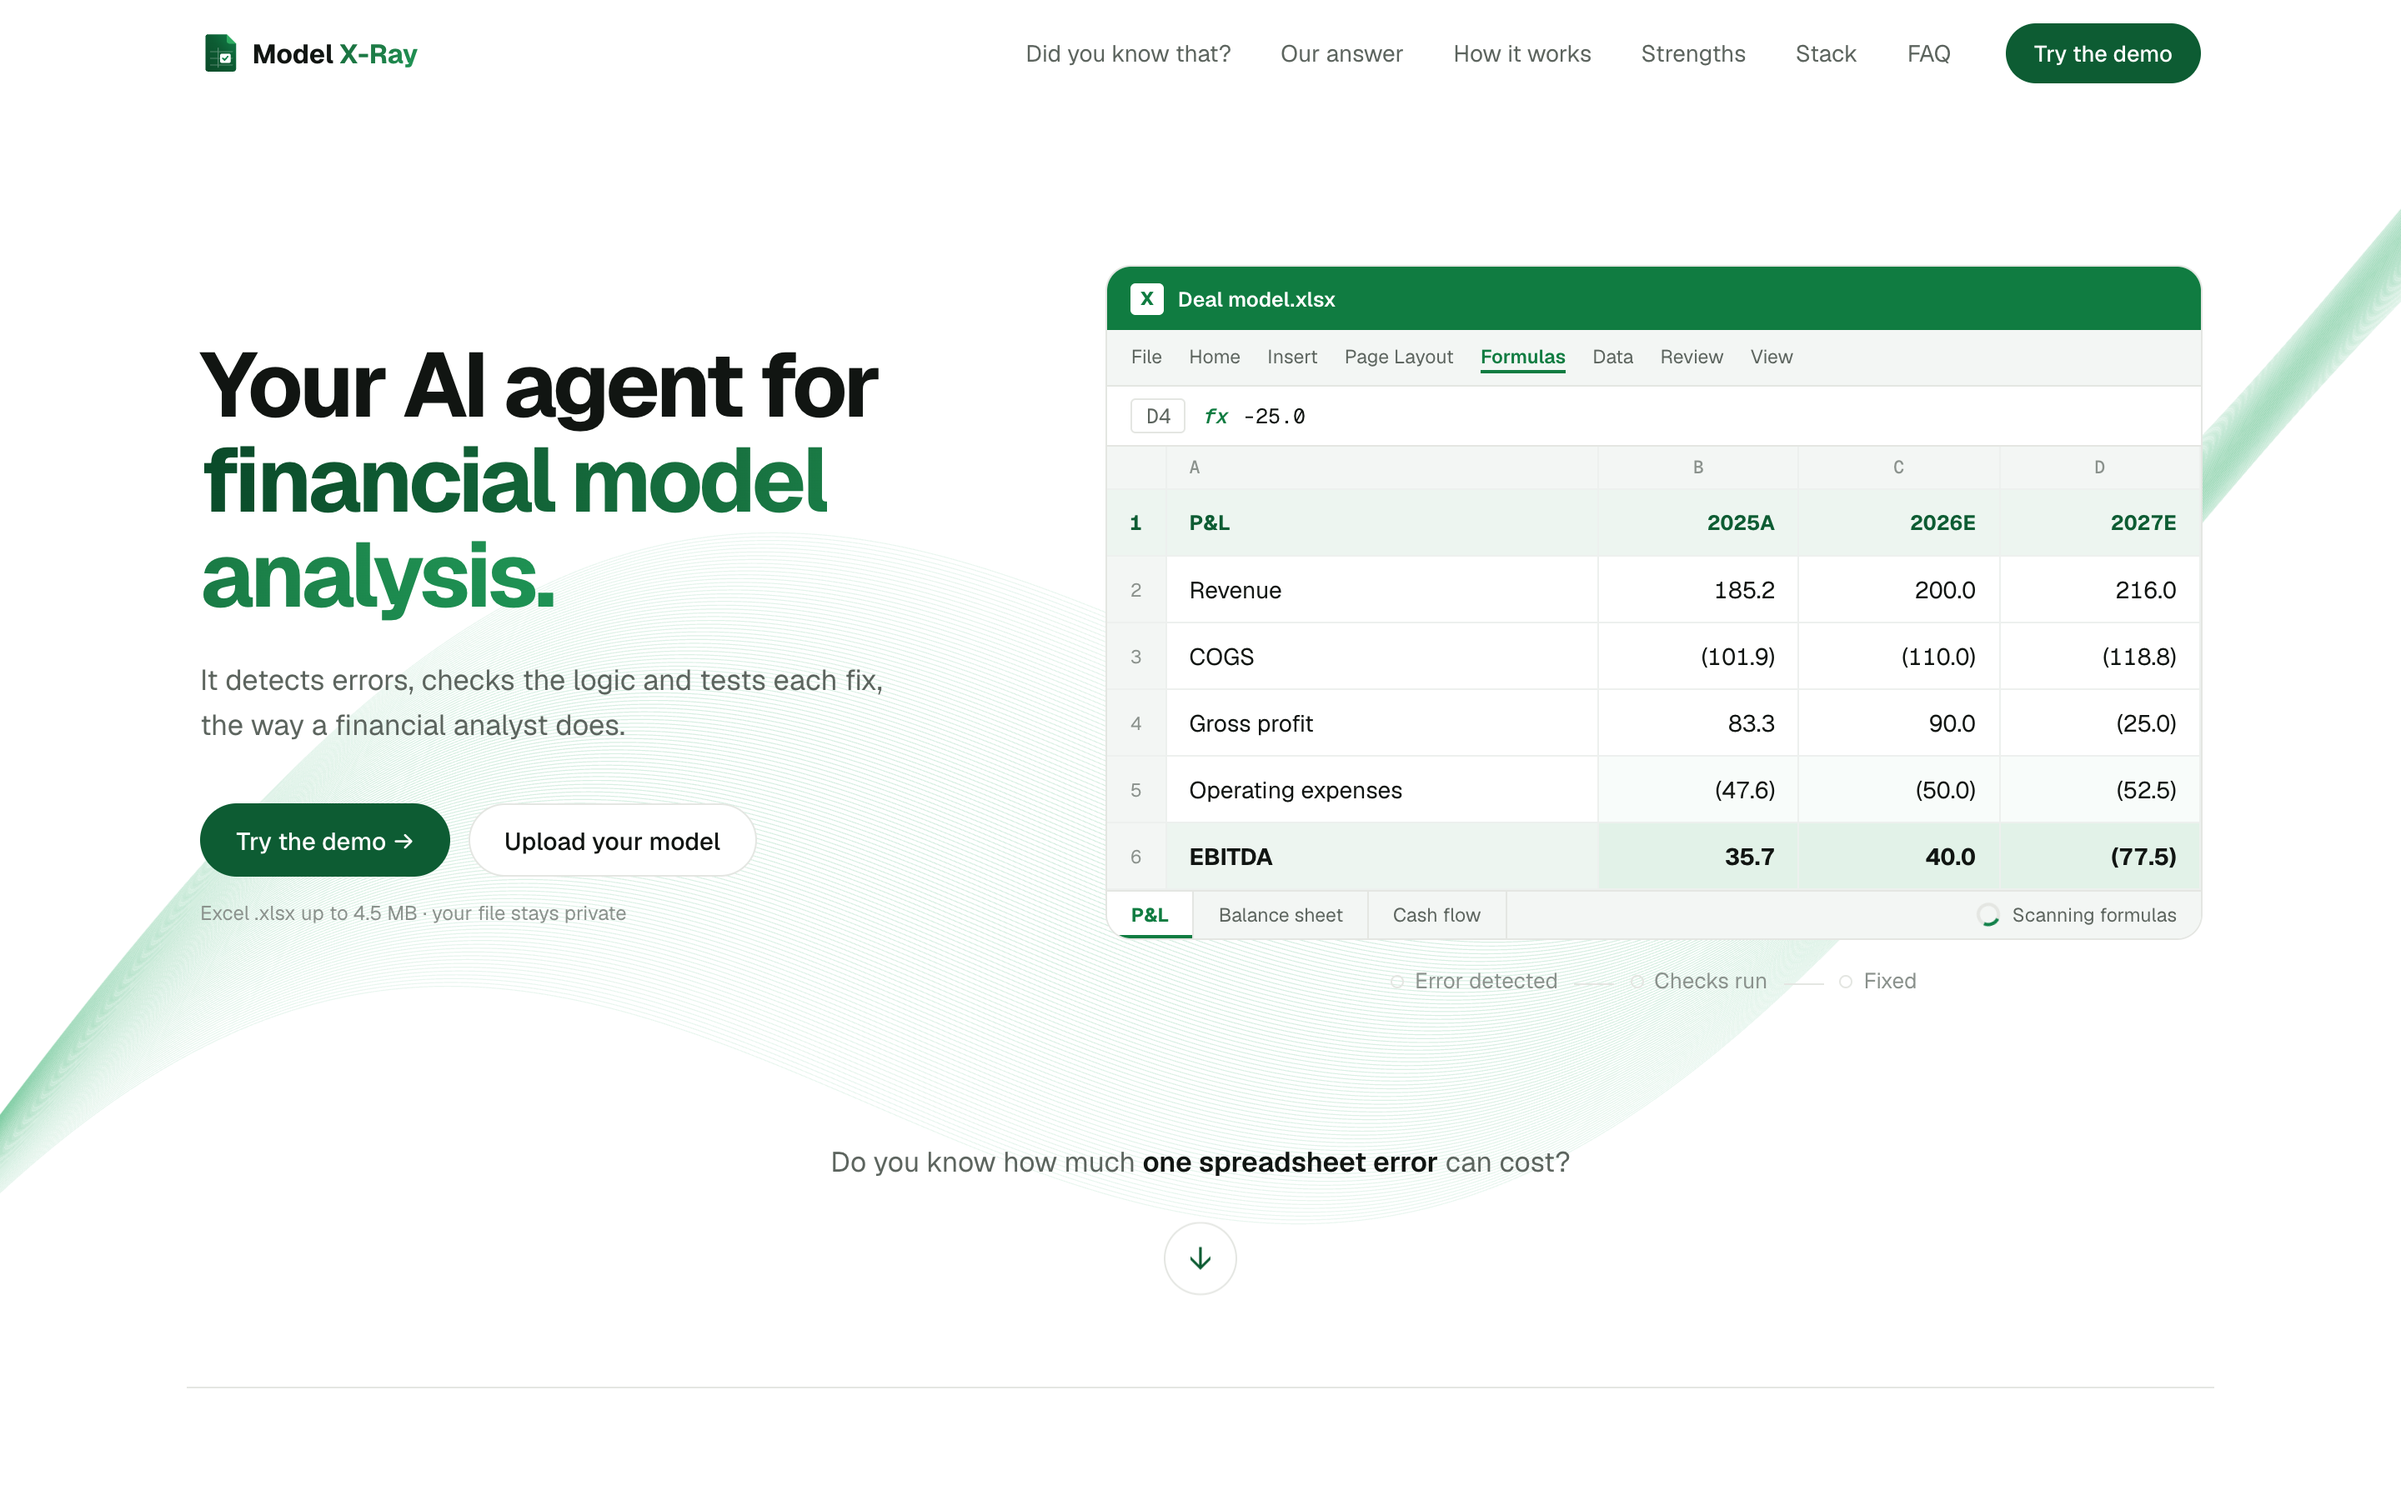
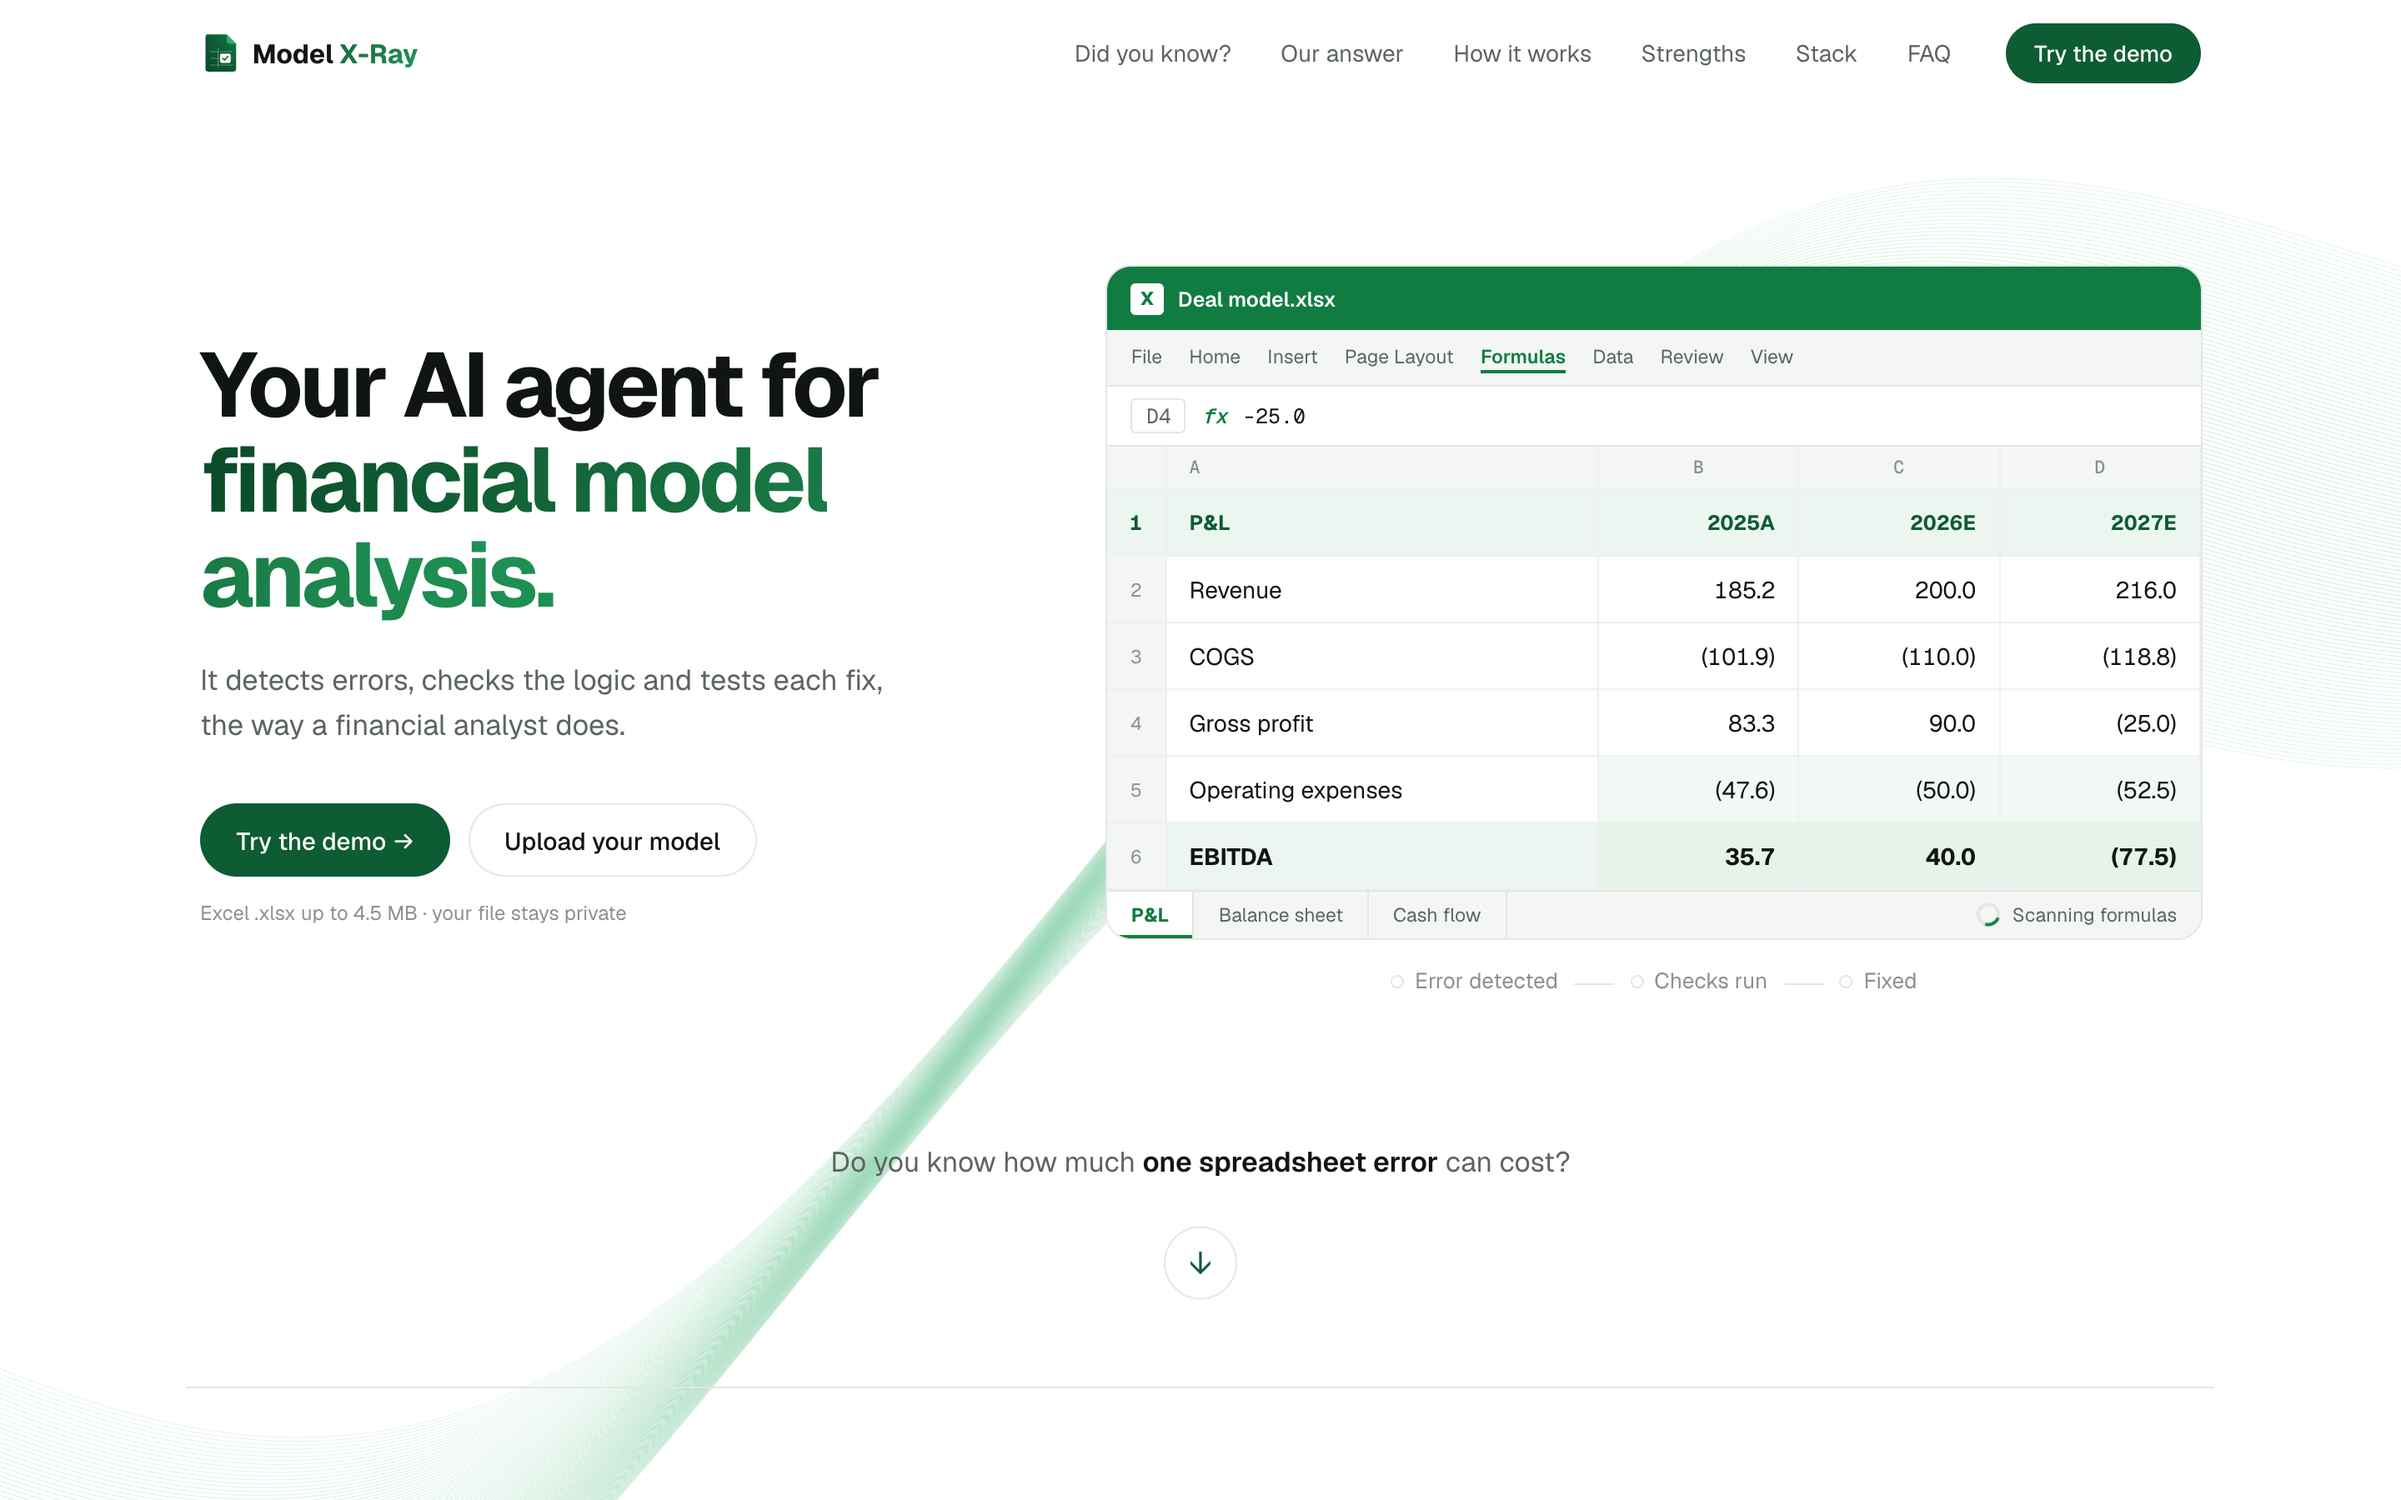
chore(video): landing capture with the new Did you know? link

diff --git a/video/voice/capture.py b/video/voice/capture.py
@@ -14,7 +14,7 @@ with sync_playwright() as p:
         if left > 0: time.sleep(left)
     at(3400); pg.screenshot(path="cap/01-landing-error.png"); log("landing error")
     at(8000); pg.screenshot(path="cap/02-landing-fixed.png"); log("landing fixed")
-    for i, anchor in enumerate(["Did you know that?", "Our answer", "How it works", "Strengths", "Stack"]):
+    for i, anchor in enumerate(["Did you know?", "Our answer", "How it works", "Strengths", "Stack"]):
         pg.get_by_role("link", name=anchor).first.click()
         time.sleep(4.8)
         pg.screenshot(path=f"cap/03-section-{i}.png"); log("section", anchor)
